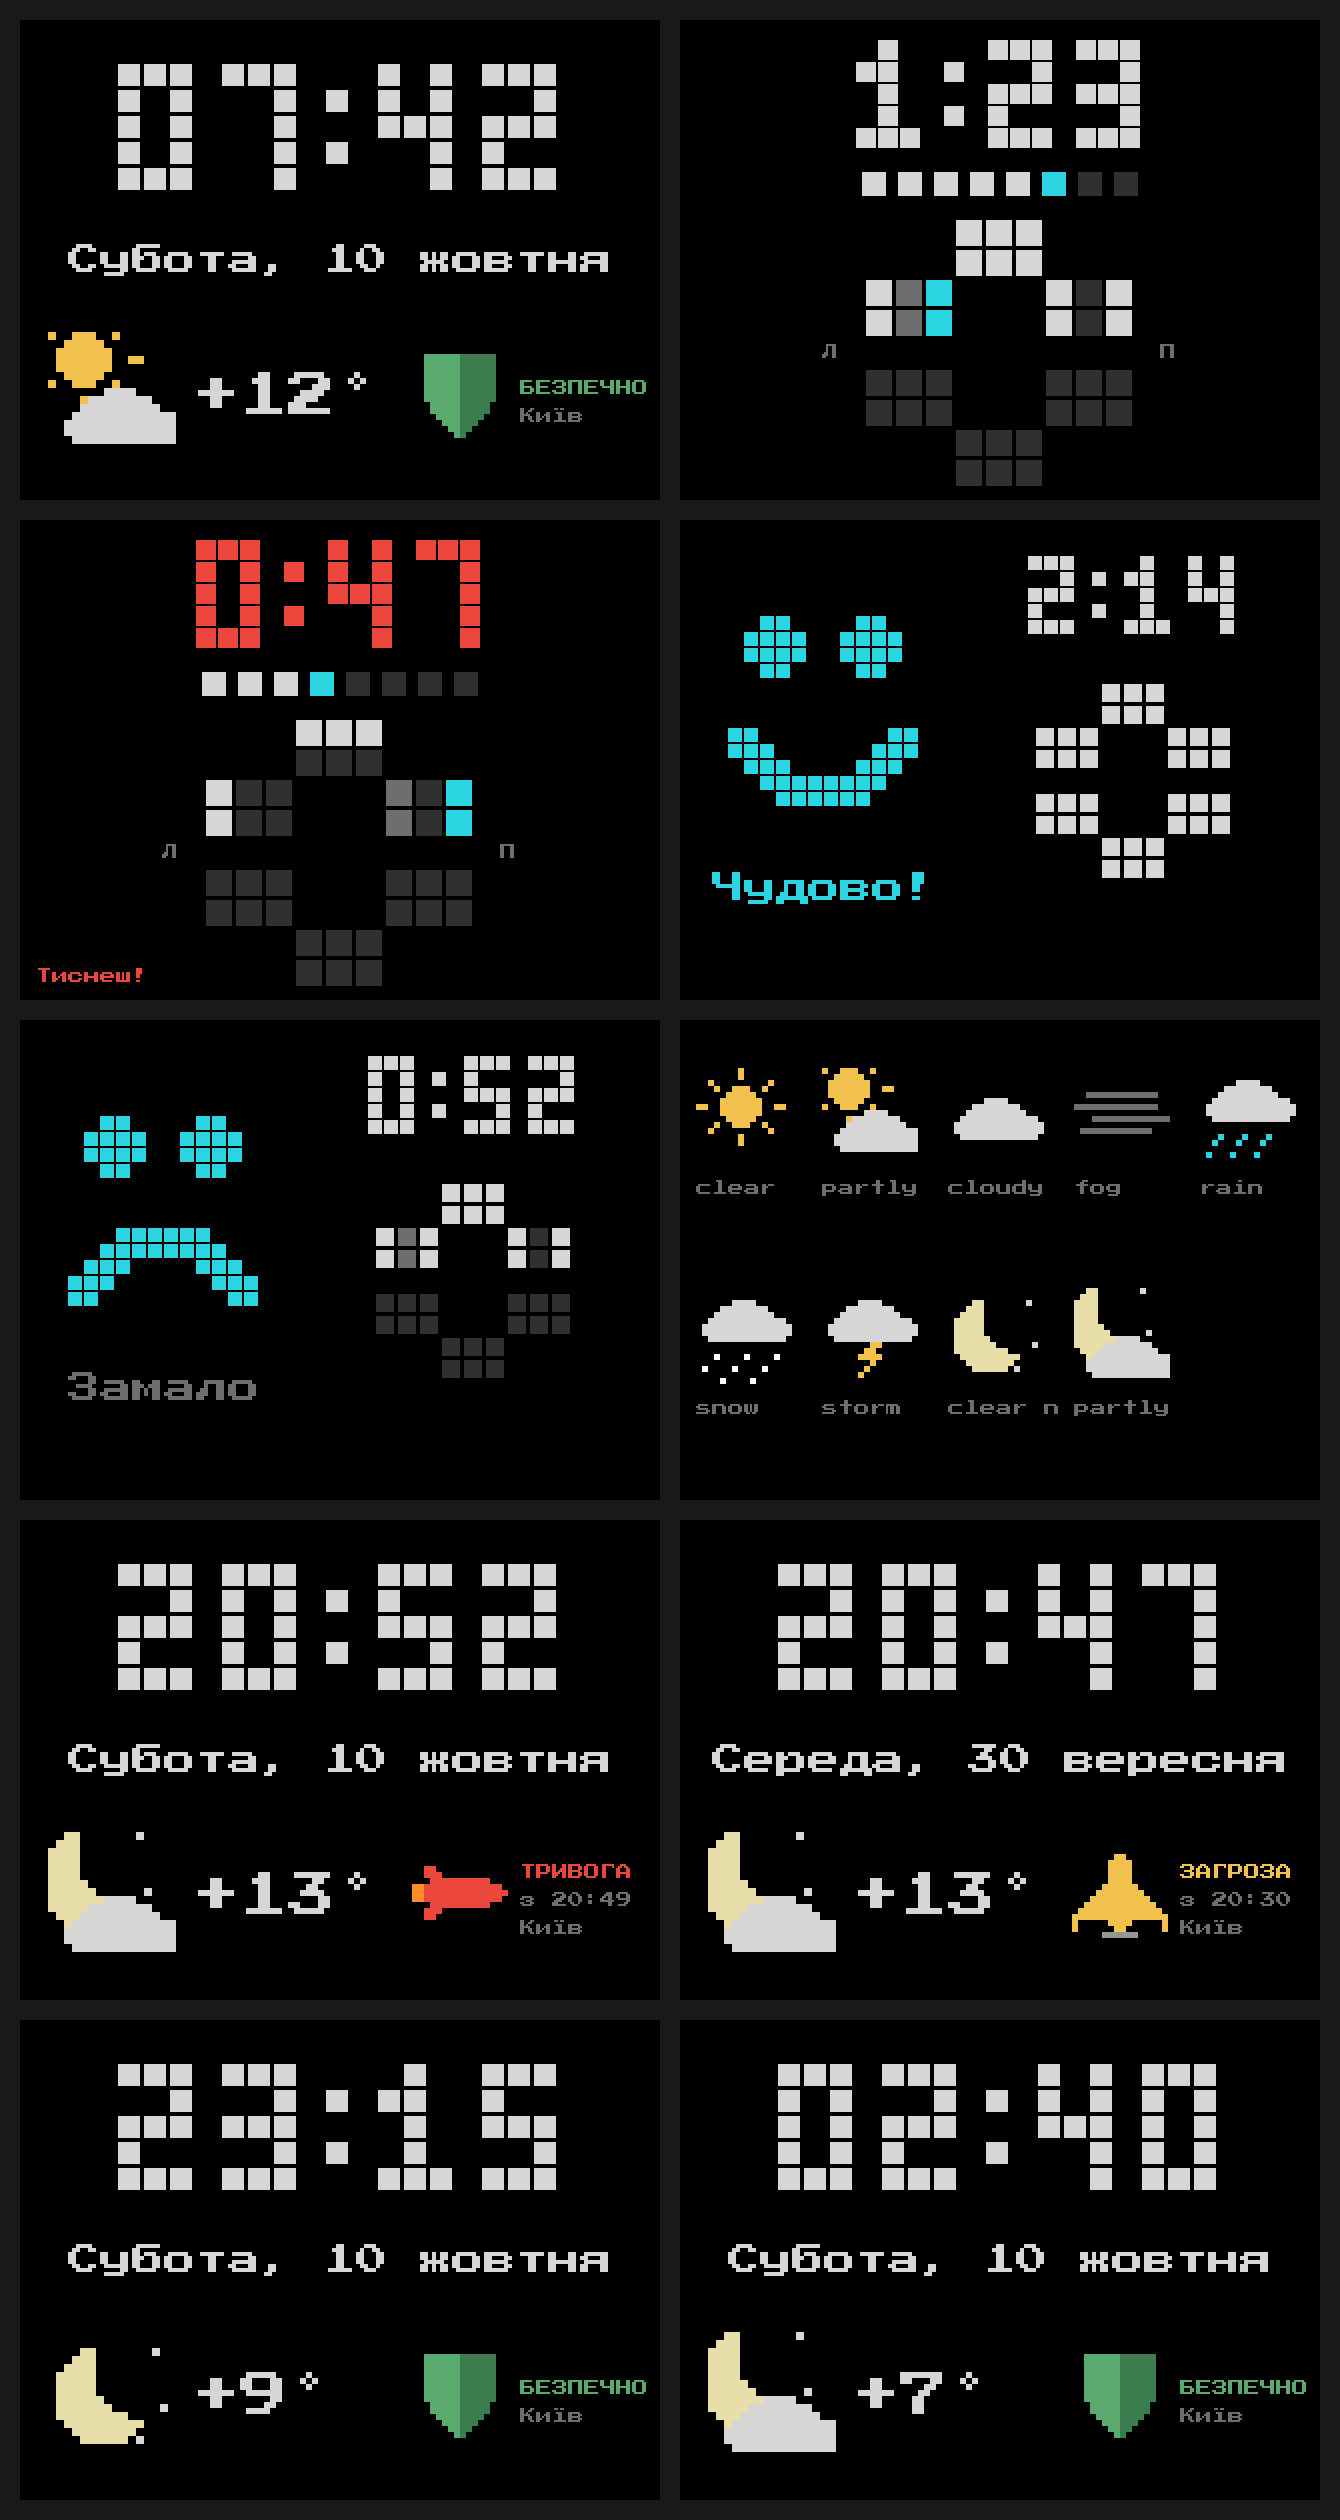
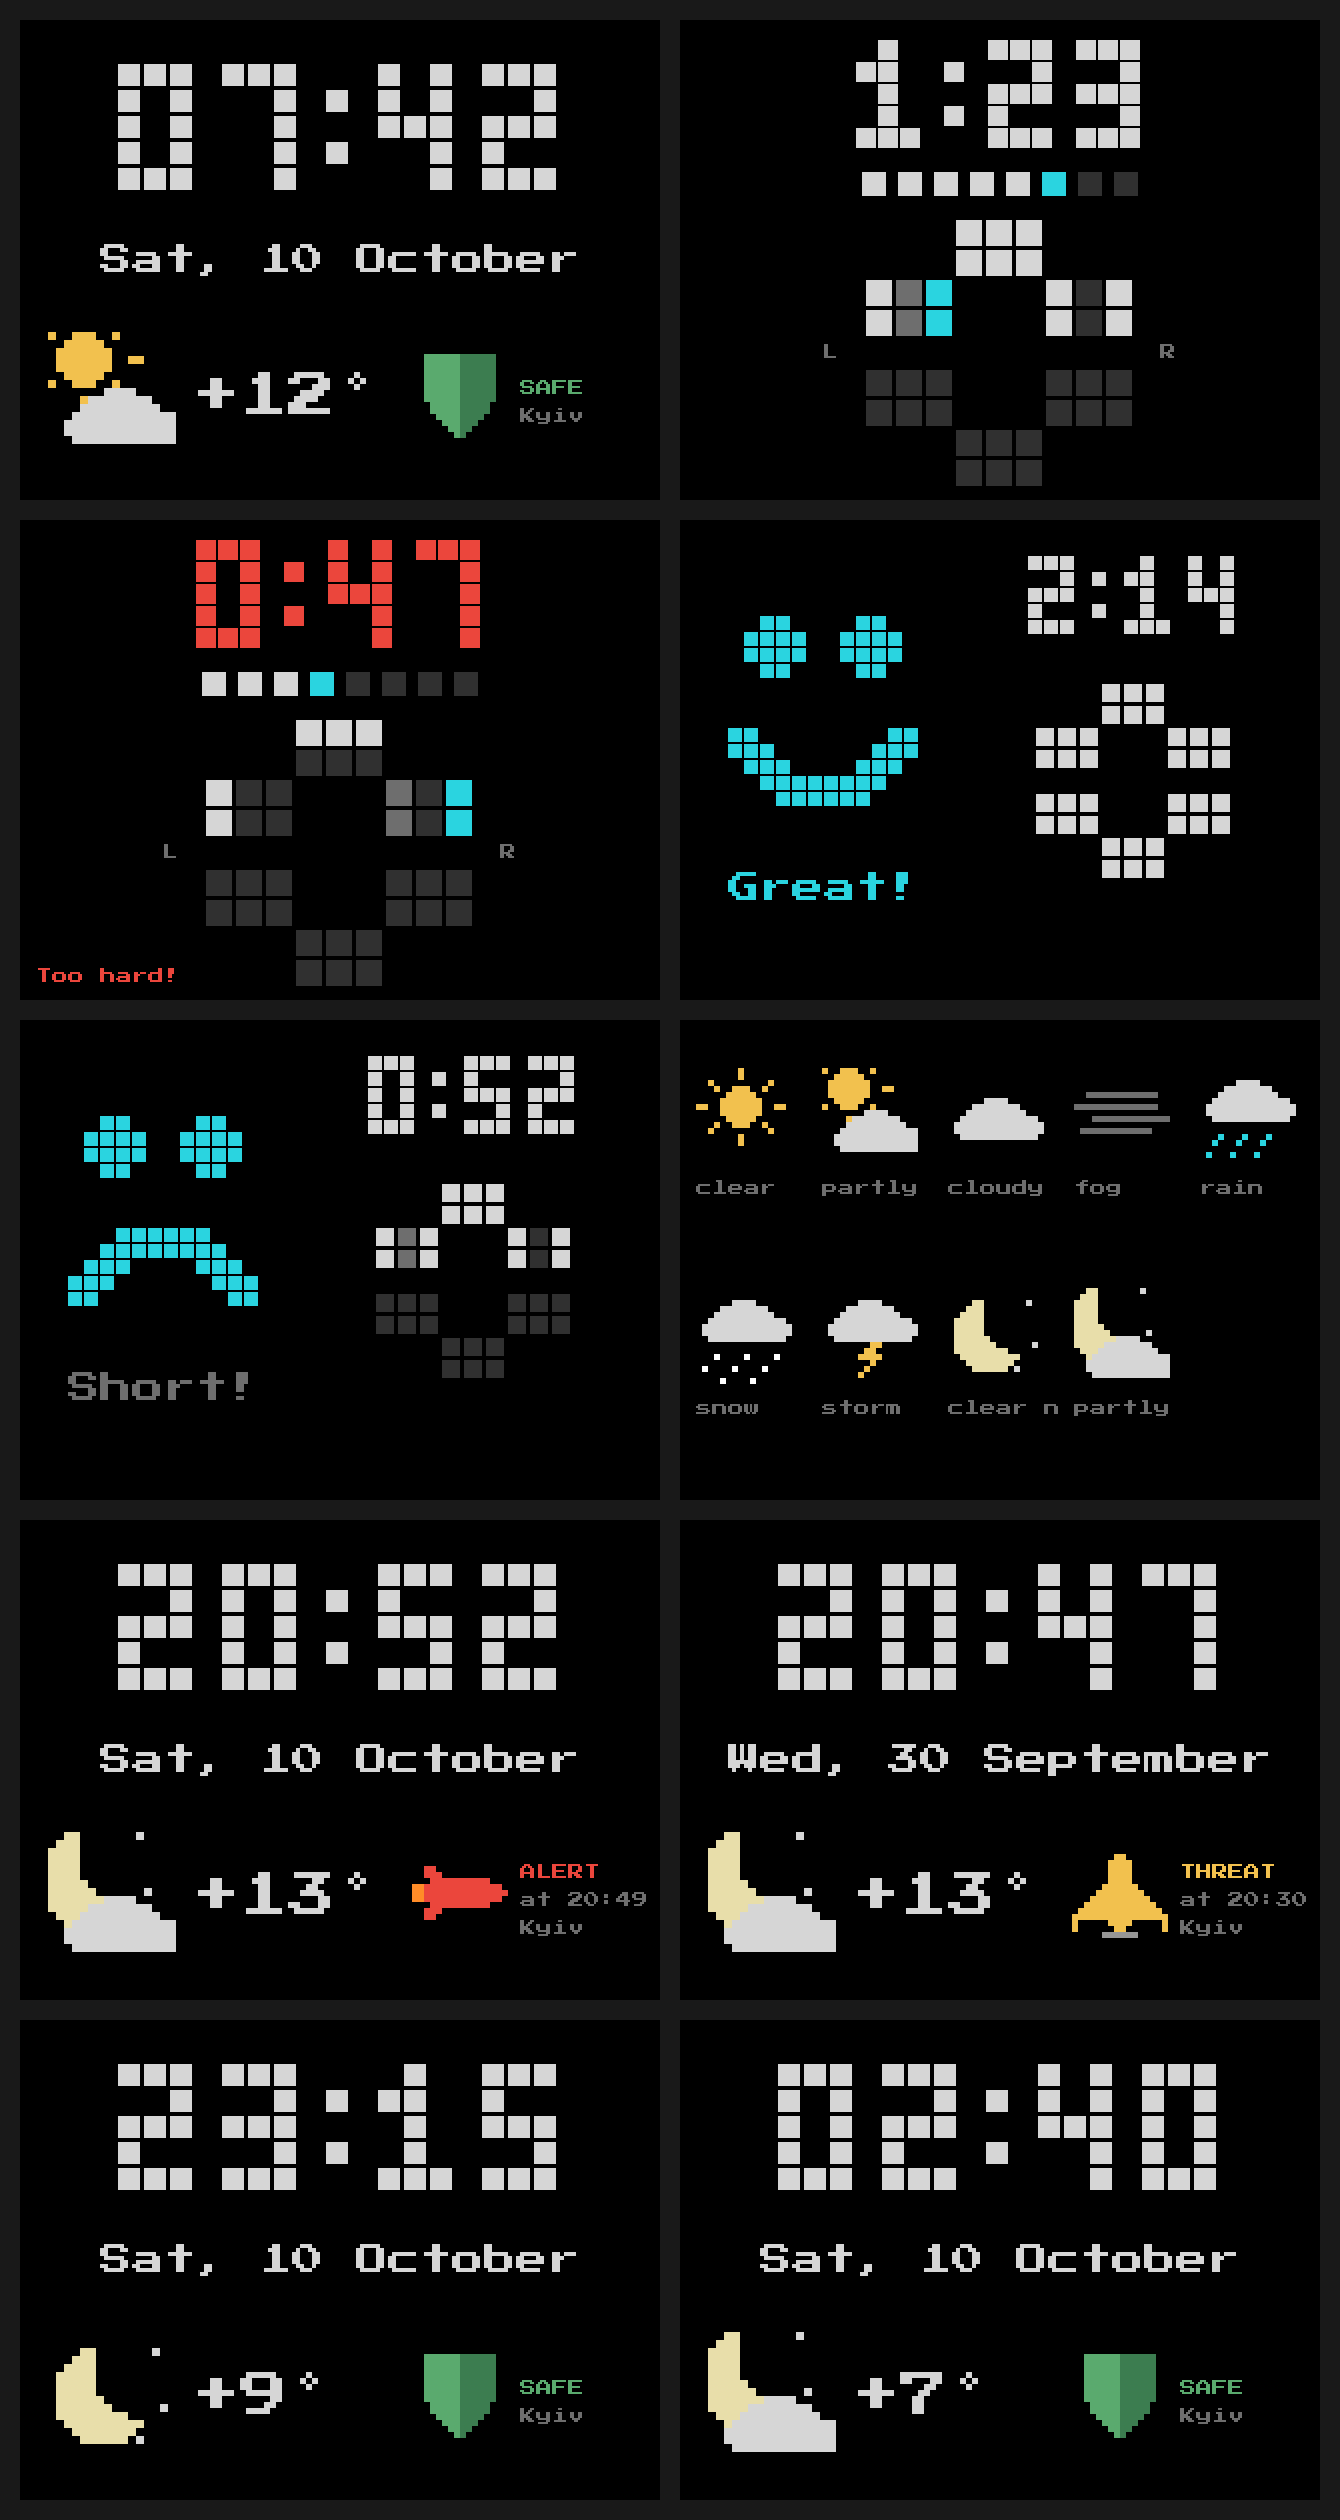
Show only the English screenshots in the README
design.py mock takes an optional language and writes just that one.

diff --git a/tools/design/design.py b/tools/design/design.py
@@ -5,7 +5,7 @@ pixel-art faces and weather icons, the teeth-zone chart and the screen layouts
 for the 320x240 landscape display. Renders mockups to PNG; the firmware assets
 are generated from the same data.
 
-    uv run --no-project --with pillow python design.py mock OUTDIR   # Ukrainian in OUTDIR, English in OUTDIR/en
+    uv run --no-project --with pillow python design.py mock OUTDIR [uk|en]  # both: Ukrainian in OUTDIR, English in OUTDIR/en
     uv run --no-project --with pillow python design.py gen      # -> include/gfx_assets.h
     uv run --no-project --with pillow python design.py golden   # -> test/data/golden_*.rle
 """
@@ -548,8 +548,10 @@ def demo_coverage(progress: float) -> dict[str, float]:
     return {z: max(0.0, min(1.0, n - i)) for i, z in enumerate(order)}
 
 
-def mock(out: Path) -> list[Path]:
-    """Writes the Ukrainian mockups to OUT and the English ones to OUT/en."""
+def mock(out: Path, lang: str | None = None) -> list[Path]:
+    """Writes the Ukrainian mockups to OUT and the English ones to OUT/en, or only LANG to OUT."""
+    if lang:
+        return _mock(out, lang)
     paths = _mock(out, "uk")
     paths += _mock(out / "en", "en")
     return paths
@@ -780,7 +782,7 @@ def write_golden(outdir: Path) -> list[Path]:
 if __name__ == "__main__":
     cmd = sys.argv[1] if len(sys.argv) >= 2 else ""
     if cmd == "mock" and len(sys.argv) >= 3:
-        for p in mock(Path(sys.argv[2])):
+        for p in mock(Path(sys.argv[2]), sys.argv[3] if len(sys.argv) >= 4 else None):
             print(p)
     elif cmd == "gen":
         out = Path(sys.argv[2]) if len(sys.argv) >= 3 else ROOT / "include" / "gfx_assets.h"

diff --git a/README.md b/README.md
@@ -13,22 +13,18 @@ RGB status LED, telnet log and OTA updates over Wi-Fi.
 
 ## Screenshots
 
-| | Ukrainian (default) | English |
-|---|---|---|
-| Clock | <img src="docs/screenshots/1-clock.png" width="320"> | <img src="docs/screenshots/en/1-clock.png" width="320"> |
-| Air-raid alert | <img src="docs/screenshots/9-clock-alert-red.png" width="320"> | <img src="docs/screenshots/en/10-clock-alert-yellow.png" width="320"> |
-| Brushing | <img src="docs/screenshots/2-brushing.png" width="320"> | <img src="docs/screenshots/en/2-brushing.png" width="320"> |
-| Too much pressure | <img src="docs/screenshots/3-brushing-pressure.png" width="320"> | <img src="docs/screenshots/en/3-brushing-pressure.png" width="320"> |
-| Result: 2 min reached | <img src="docs/screenshots/4-result-good.png" width="320"> | <img src="docs/screenshots/en/4-result-good.png" width="320"> |
-| Result: too short | <img src="docs/screenshots/5-result-short.png" width="320"> | <img src="docs/screenshots/en/5-result-short.png" width="320"> |
-| Night | <img src="docs/screenshots/7-clock-night.png" width="320"> | <img src="docs/screenshots/en/8-clock-night-partly.png" width="320"> |
+<table>
+<tr><td><img src="docs/screenshots/1-clock.png" width="320"><br>Clock</td><td><img src="docs/screenshots/9-clock-alert-red.png" width="320"><br>Clock with an air-raid alert</td></tr>
+<tr><td><img src="docs/screenshots/2-brushing.png" width="320"><br>Brushing, current zone in cyan</td><td><img src="docs/screenshots/3-brushing-pressure.png" width="320"><br>Too much pressure</td></tr>
+<tr><td><img src="docs/screenshots/4-result-good.png" width="320"><br>Result: 2 minutes reached</td><td><img src="docs/screenshots/5-result-short.png" width="320"><br>Result: too short</td></tr>
+<tr><td><img src="docs/screenshots/8-clock-night-partly.png" width="320"><br>Night</td><td><img src="docs/screenshots/6-weather-icons.png" width="320"><br>Weather icons</td></tr>
+</table>
 
-Weather icons: <img src="docs/screenshots/6-weather-icons.png" width="320">. All screens on one sheet:
-[Ukrainian](docs/screenshots/0-all.png), [English](docs/screenshots/en/0-all.png).
-
+The screen is in Ukrainian by default; English is selected on the web page (see "Language").
 These are renders from `tools/design/design.py` at 2x, not photos. The firmware draws the same pixels: a native test compares
 its frames with the design pixel for pixel (the panel's RGB565 shifts colours by a few levels). Regenerate with
-`uv run --project tools/python --with pillow python tools/design/design.py mock docs/screenshots`.
+`uv run --project tools/python --with pillow python tools/design/design.py mock docs/screenshots en`
+(`0-all.png` there has every screen on one sheet).
 
 Repository layout: the firmware is at the root (PlatformIO project). `tools/python/` is the original
 Python proof of concept, still used to record zone sessions and train the zone model; `tools/design/`
@@ -119,7 +115,7 @@ string table per language (`LANG`, with `days`, `months` and `str`); `gen` emits
 cannot silently render as `?`). The firmware picks the table through `Scene::lang`. English: "Monday, 5 May" or "Sat, 11 October" (the full weekday when the line fits in 304 px, else the 3-letter one;
 the same rule applies to Ukrainian), "Great!" / "Short!" / "Too hard!" / "Waiting for brush...",
 alert block "ALERT" / "THREAT" / "SAFE", "Kyiv", "at HH:MM" (the Ukrainian "з" is "since", but "since 20:30" does not fit beside the
-icon), side labels L / R. `design.py mock OUT` renders Ukrainian into `OUT` and English into `OUT/en`; English goldens are
+icon), side labels L / R. `design.py mock OUT` renders Ukrainian into `OUT` and English into `OUT/en` (`mock OUT en` writes only English into `OUT`); English goldens are
 `test/data/golden_en_*.rle` (the Ukrainian ones are unchanged). Settings blob version 2 adds `lang`; a stored version 1 blob loads
 with `uk`. The web page itself is English only.
 
